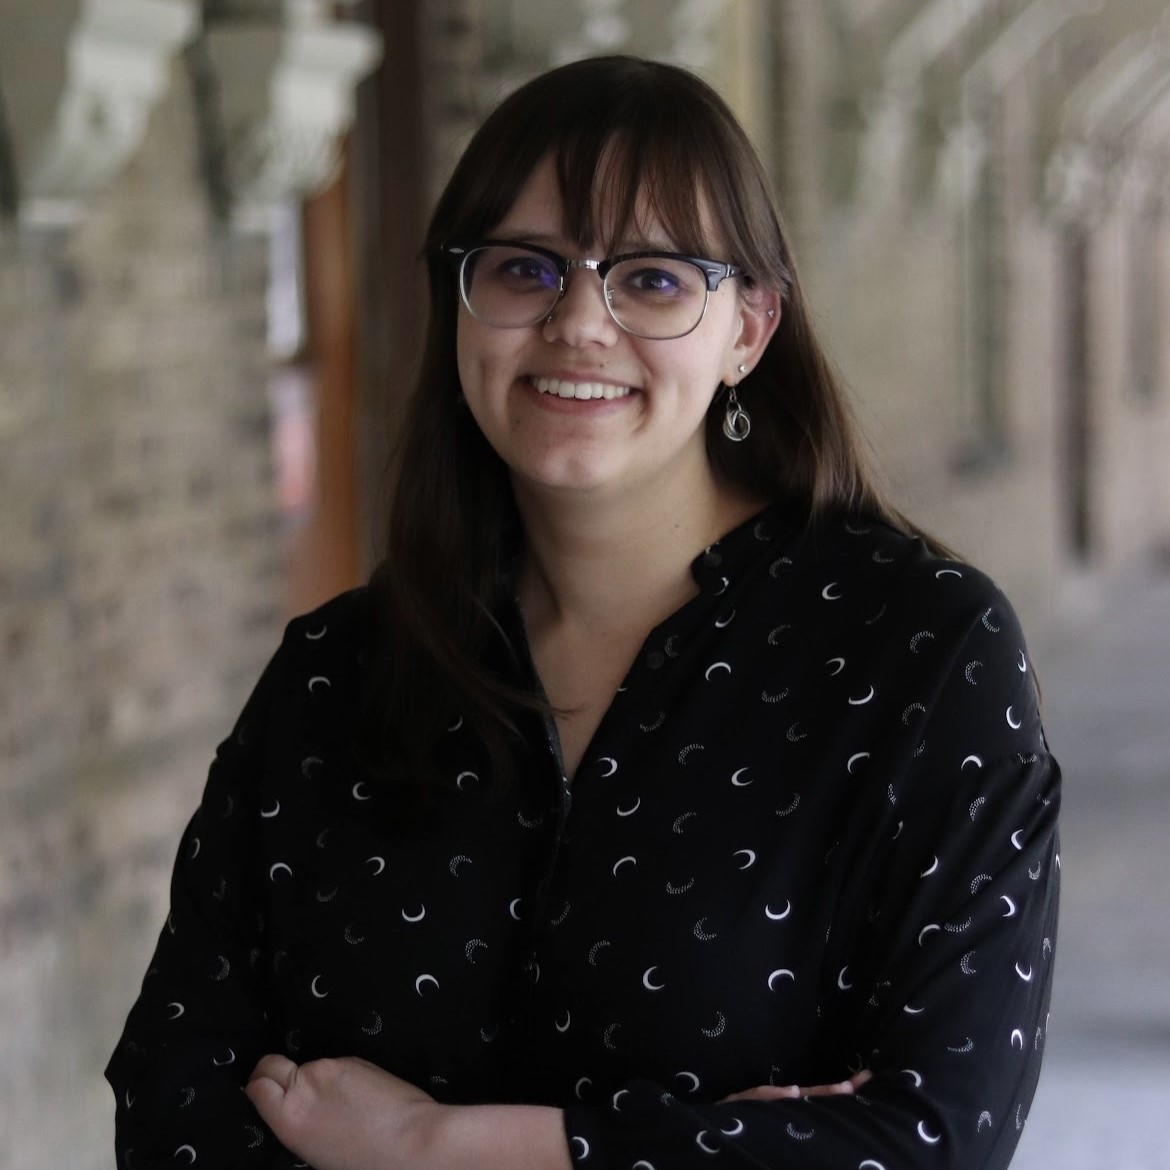
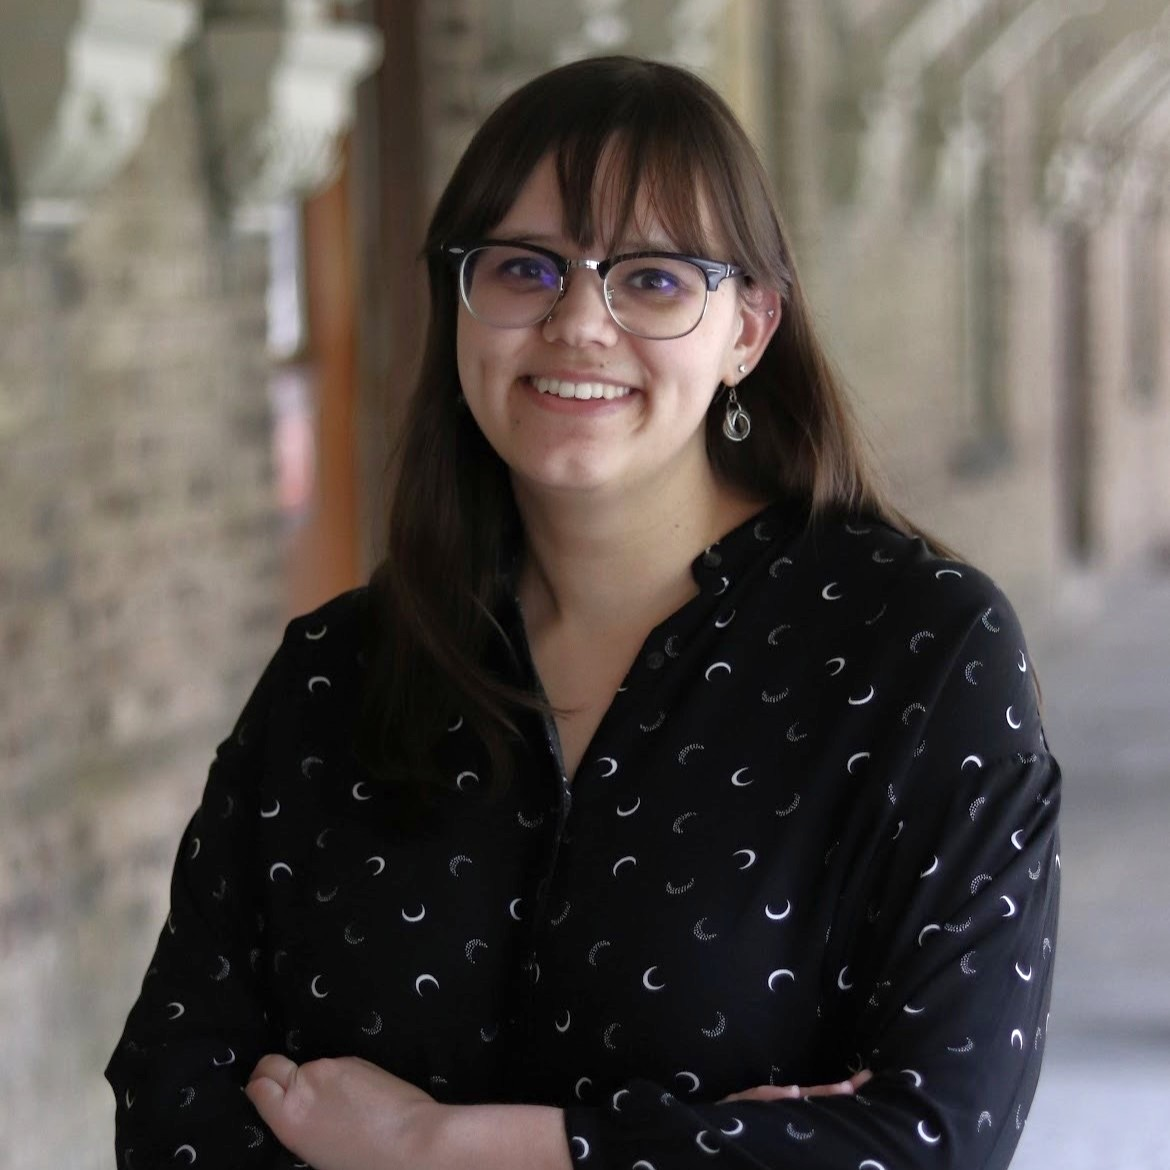
editing site

diff --git a/assets/css/main.css b/assets/css/main.css
@@ -28,6 +28,12 @@
 		padding-top: 60px;
 	}
 
+	@media screen and (max-width: 736px) {
+		body {padding-top: 80px;
+		}
+
+	}
+
 	ol, ul {
 		list-style: none;
 	}
